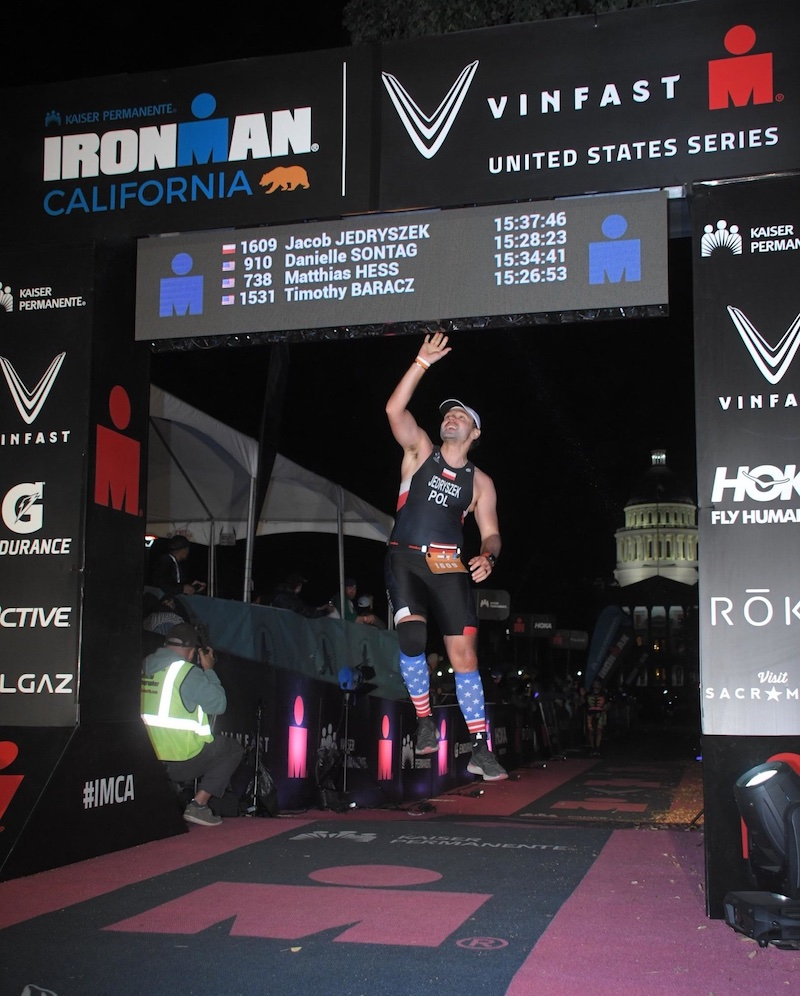
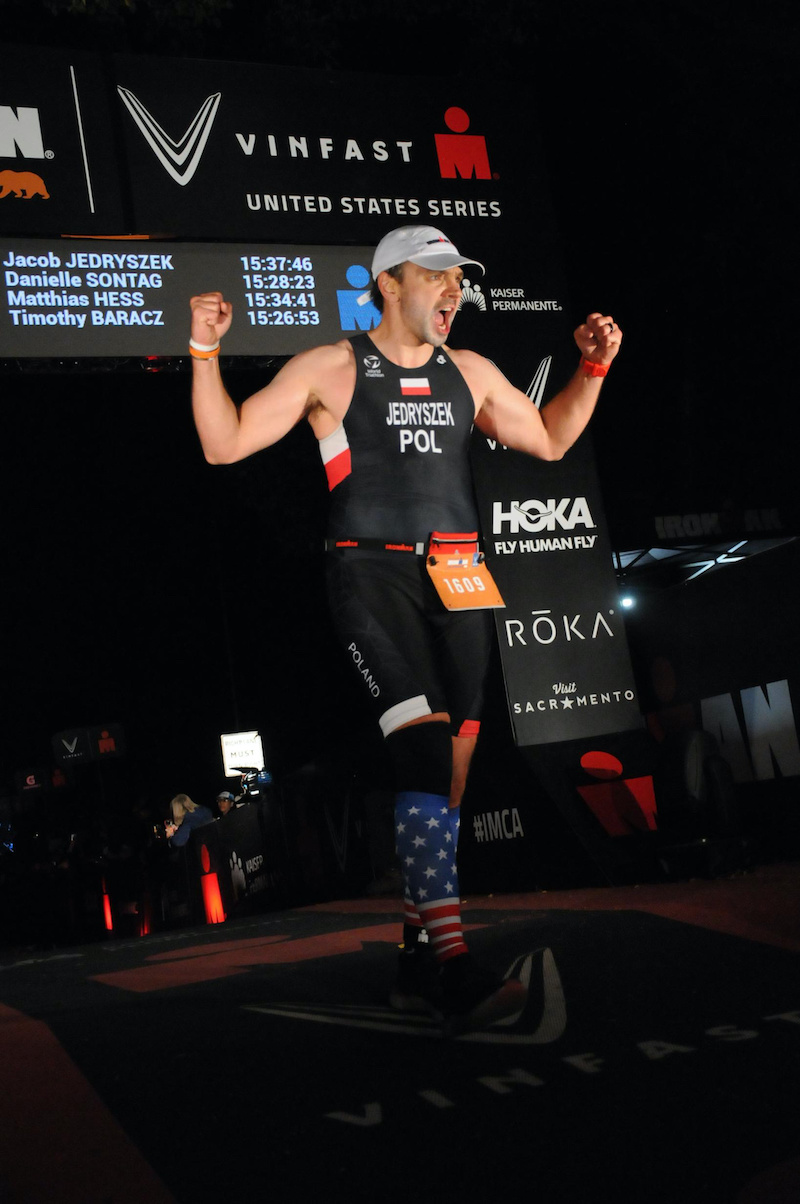
Publish Ironman post

diff --git a/_posts/2022-11-15-i-am-an-ironman.md b/_posts/2022-11-15-i-am-an-ironman.md
@@ -1,0 +1,173 @@
+---
+layout: post
+title: I am an Ironman!
+categories:
+- triathlon
+permalink: "/i-am-an-ironman/"
+---
+
+<img src="{{ site.baseurl }}/assets/2022/Ironman-finish.png" alt="Ironman California finish line" />
+
+The Ironman triathlon is 2.4 mile swim, 112 mile bike and 26.2 mile run (marathon). You have 17 hours to finish in order to become an Ironman.
+
+<h2>How I got into triathlons</h2>
+
+I've been doing triathlons for over 5 years now. Mostly Sprint and Olympic distances. I also did a few half Ironman distance races (AKA Ironman 70.3). 
+
+This is what each distance contains:
+- Sprint: 750m swim + 20k bike + 5k run
+- Olympic: 1.5k swim + 40k bike + 10k run
+- Half Ironman: 1.2 mile swim + 56 mile bike + 13.1 mile run (half marathon) - the total distance is 70.3 miles, therefore it's also called Ironman 70.3.
+
+I love biking since I was a kid. I decided to try triathlons when I was in college. Unfortunately, it took me a while to do my first triathlon, because of knee injury. Coming back to sports after that took over 1 year.
+
+The first triathlon, I've ever done was indoor triathlon i55: 10 mins of swimming + 30 mins of biking + 15 mins of running. The final result was based on the total distance covered. As most beginners, I pushed too hard on bike, and was barely able to run for 15 minutes. Despite that, I was hooked, and soon after that I signed up for my very first sprint triathlon.
+
+The first sprint triathlon I signed up for (Kirkland Triathlon) didn't happen, because of the water quality at Juanita Beach in Kirkland. A few days before the race, they changed triathlon to run-bike-run, which was ultimately a duathlon. I still got triathlon finisher medal as they had them made before finding out about the water quality issue.
+
+Despite all the obstacles, I decided to keep going. I kinda did sprint, so I went ahead and signed up for an Olympic Triathlon next year. It was Troika Triathlon in Spokane, WA. It was almost my first, legit triathlon. Almost, because the swim was cut short due to the weather issues, and bike distance was extended to compensate for shorter swim. I really enjoyed the challenge, and decided to take it to the next level. I did one more Olympic tri and entered the serious triathlon World by doing half-Ironman distance race. It was actually much easier than I thought, and I was thinking that maybe I would've been able to pull a full distance that day!
+
+<img src="{{ site.baseurl }}/assets/2022/triathlon-bike.jpeg" alt="Triathlon biking" />
+
+While training for half-Ironman, I learned that you cannot live life like you use to and just throw trainings in the spare time. You need to add time for rest, and take care of the nutrition. I learned that hard way. One week before the half-Ironman I was soo tired that I spent entire weekend in bed. I wasn't sick. No cold, or sore throat. I was just exhausted.
+
+Over years I did a few more sprints, olympics and one more Ironman 70.3 triathlon. While olympic distance races went well, the half-Ironman was a challenge. I was dealing with foot injury, and decided to just run less during the training for the race. This, didn't ended up well. After the race, I messed up my foot so bad that I was barely able to walk. Fortunately, after a week or so I was fine. At that time I didn't even stretch before and after workouts! Still had a lot to learn.
+
+After the Ironman 70.3, which ended up with injury I concluded that races above Olympic distance are not healthy. They require more time to train that you need to stay healthy. There is too much strain on your body. Often resulting in injuries. There is also need to spend more time that I would like to in training. You want to go hiking this weekend? No, I need to do my planned swim. If I won't my training plan will get screw up, and I'll have to readjust it...and I won't be prepared for the race as good as if I've done the planned session. So I sticked with Sprints and Olympics for a while.
+
+<img src="{{ site.baseurl }}/assets/2022/triathlon-run.jpeg" alt="Triathlon running" />
+
+<h2>Ironman journey</h2>
+
+I knew that at some point in my life I wanted to finish the full distance Ironman triathlon. I was delaying it, because I knew that it would require significant time commitment. Not only for the time to train, but also for time to rest. When COViD happened, and put a pause to my favorite sport, I realized (again) that life is short and I shouldn't postpone things. In 2020, when all races were cancelled, I did Sprint and Olympic triathlon with friends. We just swam, biked and run on our own. It was fun, but not as fun as real races.
+
+When, in 2021 triathlons started happening again, I decided to do Ironman 70.3 Oregon. I was hungry. As running was my weakest discipline, because of the knee injuries, I decided to do half Marathon earlier that year. My thinking was: if I finish half marathon, I can do half Ironman. Swimming and biking wasn't a problem for me. I did half marathon, followed by Olympic triathlon, and finished half Ironman without problems. Injury free! After the race a thought came to my mind: why not keep training and do a full Ironman this year? There was Ironman California, just 3 months away. This would give me enough time to build up from half to full Ironman. After discussing it with my wife, I signed up!
+
+<h3>Training</h3>
+
+I followed [My First Ironman Training Plan](https://s3-eu-west-1.amazonaws.com/kpdocshare/Training_Plans/TRI38.First_Ironman.pdf). I made one adjustment: I was doing only 1 swim per week instead of 2. Why? Swimming takes a lot of time! Not swimming itself, but before and after. Driving to the pool (or lake), changing, driving back, etc. It's much more time consuming than biking and running. Additionally, the Ironman California has down river swim, which makes it much easier. I decided to prioritize biking and running.
+
+I maintained a Google Spreadsheet where I tracked all my workouts. I used green for workouts I did as planned (at least 80% or more of planned distance), yellow for workouts that were cut short (below 80%), and red for workouts I skipped. Marking workouts as done (green) was one of the best parts of my day.
+
+<img src="{{ site.baseurl }}/assets/2022/Ironman-training-spreadsheet.png" alt="Ironman training spreadsheet" />
+
+Half way through my training I decided to do a quick consult with a coach. This made me to realize how much I didn't know, and how much more I could've learn. I recommend anyone who want to attempt an Ironman to get a coach FROM THE BEGINNING!!! It will make your training more efficient, more enjoyable and less stressful. Is that enough? Am I doing it right? Isn't that too much if I just want to finish? Coach, who has already done Ironman and trained others, can help to answer these questions. Thanks to my coach I realized that I won't be able to run the marathon during Ironman. Together with other 80% of athleets. Only pros and top age-groupers run entire marathon. Most of people run/walk or just walk! I developed run/walk strategy that made my running more efficient: 0.3mi run / 0.1mi walk.
+
+<h3>Life</h3>
+
+Training for Ironman is not only about making time for training, but also about making more time for resting! I underestimated how much more time I would need for rest. Especially, during the weekends after long workouts. I just wanted to lay down in bed and watch TV...
+
+Sometimes, easy thing like attending friend's baby shower at 2PM on Saturday or joining friends to watch the new James Bond movie in the cinema that my friend rented was impossible. I couldn't do baby shower because that day I had to ride 100 miles. For me that was ~8h. I would have to start at ~5AM, and shower/stretch/drive to baby shower in 1h. Not ideal. Especially taking into account that sunrise at the time was after 7AM. When planning to watch the new Bond movie with friends at 1PM, I had only 90mins run planned for that day. However, I had to change that plan, and I had to run 16 miles instead, which took me almost 4 hours. I planned to start at 8AM, but my body said no to 6AM wake up to eat ~2h before the run. I ended up starting after 9AM, and finished around 1PM. I skipped the movie. The Ironman dream was more important.
+
+When reading this you probably think: couldn't you just move that workout to different day or do it after the movie? Well, it's not that easy. Doing it after the movie would require me to start around 5PM at best. Finishing long run at 9PM is not great. Moving to another day? It's not easy to ensure that you do enough of swimming, biking and running even when everything goes according to the plan. Trying to move things around when you have full-time job, especially closer to race, is hard. Of course you can do it, but...you would be less prepared. You don't want to DNF (Did Not Finish), because you decided to watch a movie instead of train, right? 
+
+The weather is another component that comes to play. The rain and cold can mess up your plans for good. I was actually pretty fortunate, taking into account I live in Seattle. Weather here, in September/October (peak training months), can be not the best. I had to shuffle workouts a bit, do some Zwift biking instead of running outside, and replace Open Water Swims with pool. The most important long runs and long bike rides I was able to do outdoor! Yay! I've seen other athleetes who had to do long 4h+ rides with trainer...I would've hate that.
+
+<h3>Challenges</h3>
+
+On top of already mentioned time-management issues and weather, you may also run into another very common challenge: injuries. This happened to me ~4-5 weeks before the race. My knee didn't handle training load well. I also messed up by forgetting a knee brace that I usually wear for one of my long runs.
+
+Many people quit at that point. I decided to do whatever it takes. I wanted to become Ironman. I didn't want to postpone the dream. Especially, because I already put a lot of time and effort into this. Countless PT sessions, stretching, messages and hours of exercises at home on top of my workouts helped to alleviate the issue. I was still not very confident that I will be able to finish the race.
+
+I did whatever I could, overcame all the obstacles: time management, sacrificing social life, and managing injury. Unfortunately, I couldn't overcome the final obstacle. The race was cancelled because of [Bomb Cyclone](https://www.tri247.com/triathlon-news/elite/ironman-california-cancelled-weather)! They announced it at the race morning when I was putting my wetsuit on. It was the right decision. That day winds were 30-40mph, and it was raining. The day after, there were fallen trees on the bike course, and run course was flooded.
+
+I was devastated. All sacrifices and hard work for nothing. I tried to look at the bright side though. I decided to properly recover from injuries, and attempt it again next year!
+
+<h3>Recovery</h3>
+
+When Ironman got cancelled I jumped straight into Physical Therapy. Dan Benson from ForeFront PT is the best specialist I've ever worked with. Strongly recommend! He not only helped me to recover, but also gave me some tips that helped to improve my running. It took over 4 months from the time I started regular PT exercises until I could finally run. I was doing sets of exercises, which take 30 mins or more every other day. I hated it! I was doing it only because of my dream: becoming an Ironman. There is nothing fun about PT exercises like hip rotations, penguin walks with band, side squats or speed skitters. I was very happy that I was able to go back to running. I strengthened my hip muscles, and actually started running properly. Per Dan's advice I also tried to keep 175 steps per minute cadence, which is not easy! I was usually below 150 spm! Everytime when I was hurting, increasing cadence seemed to fix it. That was a silver bullet. After 4 months I could run, and I did 5k race that went smooth.
+
+<h3>Smarter Training</h3>
+
+Thanks to the experience from the previous year, I knew better how to manage my time during the training. No social life for 3 months, with 1 exception for a party in 1 weekend. No international travel during that time neither. I really spent 3 months focused on the race. My life was: work, training, rest. Not much room for anything else. I sometimes work 50-60h/week, and it was hard not only for me but also for my wife. We were both commited though, as we both knew it would be just one and done. I am very grateful for her support. Without that becoming Ironman wouldn't be possible. 
+
+In my second attempt, I prepared better in all disciplines. I followed the same [My First Ironman Training Plan](https://s3-eu-west-1.amazonaws.com/kpdocshare/Training_Plans/TRI38.First_Ironman.pdf). I still swam only once per week. This time I modified long runs to be distance based building up to 16 miles as longest run per my coach recommendation.
+
+I vastly improved nutrition, both during and after training. 60g+ of carbs per hour during, and [protein shake](https://www.target.com/p/premier-protein-shake-chocolate-4pk-11-fl-oz/-/A-50835667) after workouts longer than 1h. I showed up on the start line stronger than year before and injury free.
+
+<h3>Successful race</h3>
+
+My goal for the race was to finish. I estimated that in the best case scenario I can do it in about 14 hours, but realistically closer to 16. Again, the time limit is 17 hours. If you finish after 17 hours and 1 second you are **NOT Ironman**.
+
+My pacing plan:
+
+* swim: treat it as a warm up; swim at good pace, but don't push
+* bike: 80-90 rpm, HR below 144 bpm
+* run: walk first 10 minutes, then run 0.3 mile / walk 0.1 mile, walk through every aid station
+
+My nutrition plan:
+
+* bike: during hours 1,3,5, and 6/7 - drink tailwind+gatorade mix (40-80g carbs per hour), in hours 2,4,6 - eat 1x honey stinger, 1x gel, 1x cliff block
+* run: 1 gel every 15 mins, tailwind+gatorade on the half way point (special needs bag)
+
+There were some challenges during, and before, the race that I didn't anticipated. The transition was setup at the Stadium in Sacramento, CA. Getting in and out required a lot of walking. Before getting to water I walked 5000 steps! I also spent 1 hour in line to the shuttle, which was taking athleetes from the transition zone to swim start. However, after that the [Lose yourself](https://www.youtube.com/watch?v=_Yhyp-_hX2s) at the swim start, when I was entering the water, gave me good kick, and swim went great. It was very enjoyable experience. After it, another challenge: I had to **run barefoot on concrete for 1 mile** from swim exit to transition. I was worried that I could get injuried, and the race will be over. I took it very easy, walked parts of it, and made it to bike.
+
+<img src="{{ site.baseurl }}/assets/2022/ironman-swim.JPG" alt="Ironman California swim" />
+
+The 112 miles bike ride was not easy. I experienced the strongest winds I've ever biked with: 20-30mph! It was worse than biking in Kona, which is famous for brutal winds. I biked there year before. Bike course had two out and back loops (56 miles each). In some parts of the course I was getting tail wind, but other parts had head wind, and the worst possible: cross winds. I had to hold on to my aero bars and be focused every single second to don't crash. It was very energy and mentaly draining. A few athleetes ended their race by crashing on the bike due to the wind. The last few miles were especially tough. It was against the wind, and wind was getting stronger later in the day. It was windy utill the very last turn into the transition!
+
+<img src="{{ site.baseurl }}/assets/2022/ironman-bike.JPG" alt="Ironman California bike" />
+
+When I got off the bike it was hard to walk. I was asking myself: "How am I gonna run a marathon now?". I thought it was impossible, but I was trying not to think too much about it. Instead, I was focusing on executing my race plan. I took my time during the transition, changed to running gear, and walked for the first 10 minutes. After that, I started my run/walk strategy 0.3mi run / 0.1mi walk. I was also walking through aid stations, sometimes stopping for bathroom breaks. 
+
+First 9 miles went pretty well. After that, I experienced what Ironman athleetes call the dark moment. It was literally dark. We entered the park after sunset, and there was no lights there. Sometimes, total darkness. Thankfully to Ironman race organizers, there were providing head lamps for athleetes. However, even with the head lamp it was dark... 
+
+The miles were passing slowly and I was getting weaker. I had my rocket fuel mix (tailwind+gatorade) at run special needs bag, which was at mile 10.5. I drank almost entire bottle. After that I felt like puking for next 30-45 mins. I knew however, that I would be better off not feeling great than bonking. 
+
+Sometimes, I was wondering where is the next mile marker. A few times I thought that maybe I missed it, and the next one would be the following mile. Only to find a few minutes later that I just got to the one that I thought I passed... 
+
+The park section was out and back. After making the u-turn at mile 14.5 I started seeing the path to victory (AKA finish). It was more and more painful though. I started calculating how fast I need to run/walk, and it looked good. I even decided to walk 1 mile to see how much faster I am running than walking. It wasn't much. Less than 5 minutes per mile! However, at that point it was more painful to walk than run!
+
+In the last 10 miles I switched from eating gels to pretzels, chips and coca cola. It was great! Change from sugar to savory did magic. It was actually getting down easier than gels! That gave me a boost.
+
+When I finally got to mile 20, one volounteer said that it's only 10k to finish. 6.2 miles is 10k! This gave me another power boost. From that point I threw my strategy out of the window and just went on. I walked some parts of last 10k, but last 5k was my fastest split, and last mile was my fastest mile!
+
+<img src="{{ site.baseurl }}/assets/2022/ironman-finish.jpg" alt="Ironman California 2022 Finish Line" />
+
+I finished in 15 hours and 17 minutes. A little below 16h I was targeting, but way above assummed best case scenario of 14h. The winds and long transitions prevented that. None of this matters now. I am an Ironman!
+
+Crossing the finish line was awesome! I wish it lasted longer than a few seconds.
+
+<iframe width="720" height="420" src="https://www.youtube.com/embed/qBMtwPUi4pY" title="Ironman California 2022 - Jacob Jedryszek finish" frameborder="0" allow="accelerometer; autoplay; clipboard-write; encrypted-media; gyroscope; picture-in-picture" allowfullscreen></iframe>
+
+<h2>Reflection and Lessons Learned</h2>
+
+If I was about to do it again, there are a few things I would've done differently.
+
+1. I would probably cap my runs by time as recommended in [My First Ironman Training Plan](https://s3-eu-west-1.amazonaws.com/kpdocshare/Training_Plans/TRI38.First_Ironman.pdf), and for the longest run just do 16 miles instead of recommended 20.
+2. I would still do 1 swim per week. Even if it wasn't down river swim, I would've swam 2.4 miles without issues.
+3. I would cut my dose of carbs from tailwind by half. Instead of 80g from tailwind I would get 40g, and try to get another 20-30g from gels or gatorade.
+4. I would put gatorade flavor I like in the bike special needs bag. The orange gatorade endurance provided on the course was awful. I couldn't drink it, which forced me to switch to water. This resulted in less electrolytes.
+5. I would start eating chips/pretzels with coca cola earlier during the run. Probably after 5-6 miles.
+6. I would definitely get chicken broth whenever it was available. They were offering it when I was on the way out (about mile 11) and I was planning to get it on my way back...but when I was coming back they ran out.
+
+Things besides training that helped me a lot:
+
+1. Stretching after every training.
+2. PT combined with strength exercises 1-2 times per week
+3. Making time for rest. Not planning anything after long bike rides and long runs on the weekends. It's hard...but it helps a lot!
+4. Support from your partner, and understanding that 3 months before the race (or maybe even more) would be dedicated for Ironman. Not much time for travel or social life.
+
+As I mentioned before, training for Ironman is much more than just putting hours of training. You need to be smart at handling unexpected life events, managing your life well to don't get sick and most importantly knowing when to stop pushing to don't end up with injury. Especially during the run. This is where majority (if not all) of athleetes get injuries. 
+
+Proper diet and enough amount of sleep is crucial. Otherwise training won't be effective. In [Fast-Track Triathlete](https://amzn.to/3DX8MrK) Matt Dixon recommends to do not bother with training if you are not well rested as it will have the opposite effect.
+
+Although Ironman challenge was a great journey, I am looking forward to go back to Sprint and Olympic distance races.
+
+Maybe I'll do Ironman in Kona after I retire ;)
+
+<img src="{{ site.baseurl }}/assets/2022/ironman-wall.JPG" alt="Ironman California wall" />
+
+<h2>Call to action!</h2>
+
+It's recommended that all of us do 30 mins of exercise per day. This is actually enough to train for both Sprint and Olympic distance triathlon!
+
+If you do 2x30 mins run + 1x30 mins swim + 2x1h bike it would be more than enough to finish sprint triathlon! That's total of 3.5h per week, which is 30 minutes per day.
+
+For Olympic: 2x30 mins run + 1x30 mins swim + 1x brick (1h45m bike + 15m run) + optional 1x30-60mins run
+
+That's it! 4 times per week. 30mins/day average!
+
+If you are interested in triathlon I recommend to join local triathlon club. For Sprint and Olympic distance races I recommend to use [free training plans from Phil Mosley](https://www.myprocoach.net/free-training-plans/). To learn more about triathlon: [Your First Triathlon book](https://amzn.to/3A8o9fD) is a great resource to get started. For more advanced I recommend [The Triathlete's Training Bible](https://amzn.to/3EpTTzG). If you have a full-time job and want to participate in Ironman 70.3 or Ironman distance races check out Matt Dixon's [Fast-Track Triathlete](https://amzn.to/3DX8MrK).
+
+Triathlon is fun, and it's a great mix of different disciplines to keep your body in shape and healthy. I love this sport, and I recommend it to everyone! Hope to see you on the race course!
